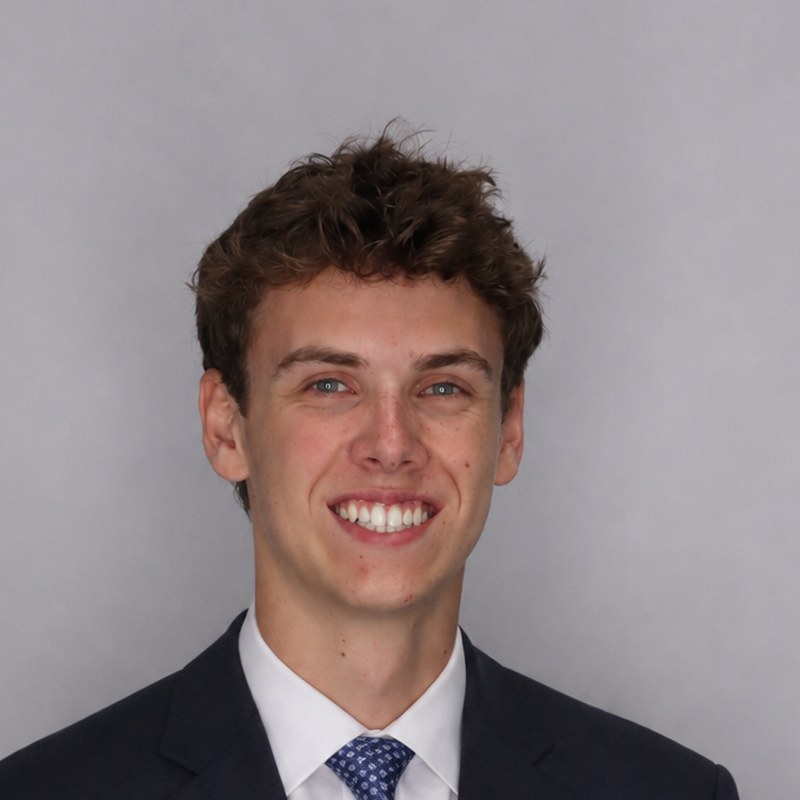
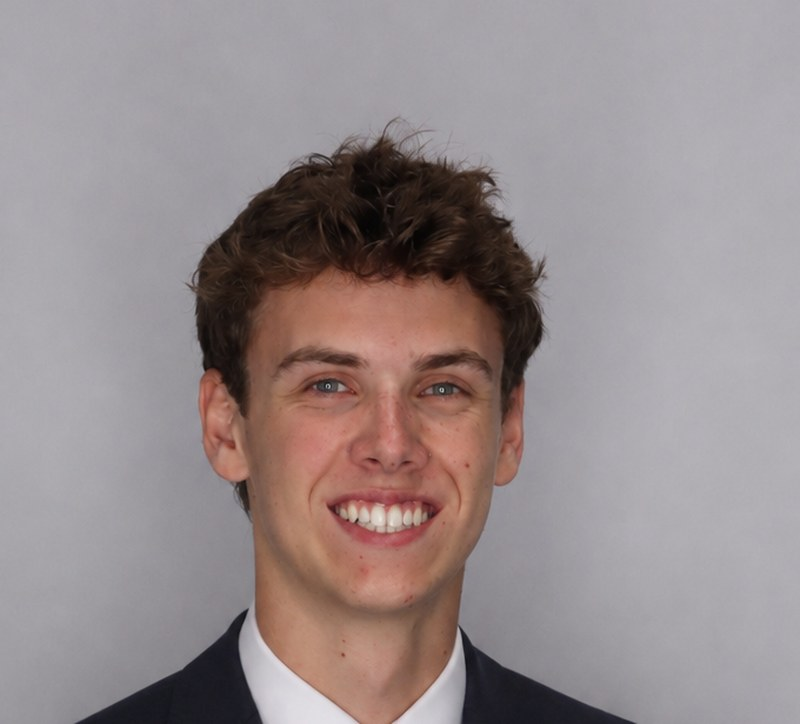
Add files via upload

Changed region(s): [[0.0, 0.1519, 0.9375, 1.0]]

diff --git a/index.html b/index.html
@@ -215,6 +215,7 @@ footer{background:var(--bg2)}
 .lock-over b{font-family:var(--display);font-size:2.6rem;font-weight:600;color:var(--text)}.lock-over span{font-size:.85rem;color:var(--mute);margin-top:4px;letter-spacing:.08em;text-transform:uppercase}
 .cta-grid{display:grid;grid-template-columns:auto auto;gap:12px;width:max-content}.cta-grid .btn{text-align:center}.cta-grid .email{grid-column:1/-1;background:#fff;color:var(--acc);border:1.5px solid var(--acc)}.cta-grid .email:hover{background:var(--bg2)}
 .li-link{display:inline-flex;align-items:center;gap:10px;margin-top:16px;font-weight:600;color:#0a66c2;text-decoration:none;font-size:.95rem}.li-link:hover{text-decoration:underline}.li-ico{display:inline-flex;align-items:center;justify-content:center;width:26px;height:26px;border-radius:5px;background:#0a66c2;color:#fff;font-weight:700;font-size:.85rem;font-family:Arial,sans-serif}
+.hero-img img{aspect-ratio:auto!important;height:auto}
 </style></head><body><header class="nav"><a class="logo" href="index.html">Andrew Mish</a><button class="menu-btn" aria-label="Menu">☰</button><nav><a href="index.html">Home</a><a href="#work">Work</a><a href="#experience">Experience</a><a href="#involvement">Involvement</a><a href="#about">About</a><a href="Andrew_Mish_Resume.pdf" target="_blank" rel="noopener">Resume</a><a href="#contact" class="nav-cta">Contact</a></nav></header>
 <section class="hero wrap">
  <div class="hero-txt">

diff --git a/_style.css b/_style.css
@@ -215,3 +215,4 @@ footer{background:var(--bg2)}
 .lock-over b{font-family:var(--display);font-size:2.6rem;font-weight:600;color:var(--text)}.lock-over span{font-size:.85rem;color:var(--mute);margin-top:4px;letter-spacing:.08em;text-transform:uppercase}
 .cta-grid{display:grid;grid-template-columns:auto auto;gap:12px;width:max-content}.cta-grid .btn{text-align:center}.cta-grid .email{grid-column:1/-1;background:#fff;color:var(--acc);border:1.5px solid var(--acc)}.cta-grid .email:hover{background:var(--bg2)}
 .li-link{display:inline-flex;align-items:center;gap:10px;margin-top:16px;font-weight:600;color:#0a66c2;text-decoration:none;font-size:.95rem}.li-link:hover{text-decoration:underline}.li-ico{display:inline-flex;align-items:center;justify-content:center;width:26px;height:26px;border-radius:5px;background:#0a66c2;color:#fff;font-weight:700;font-size:.85rem;font-family:Arial,sans-serif}
+.hero-img img{aspect-ratio:auto!important;height:auto}
